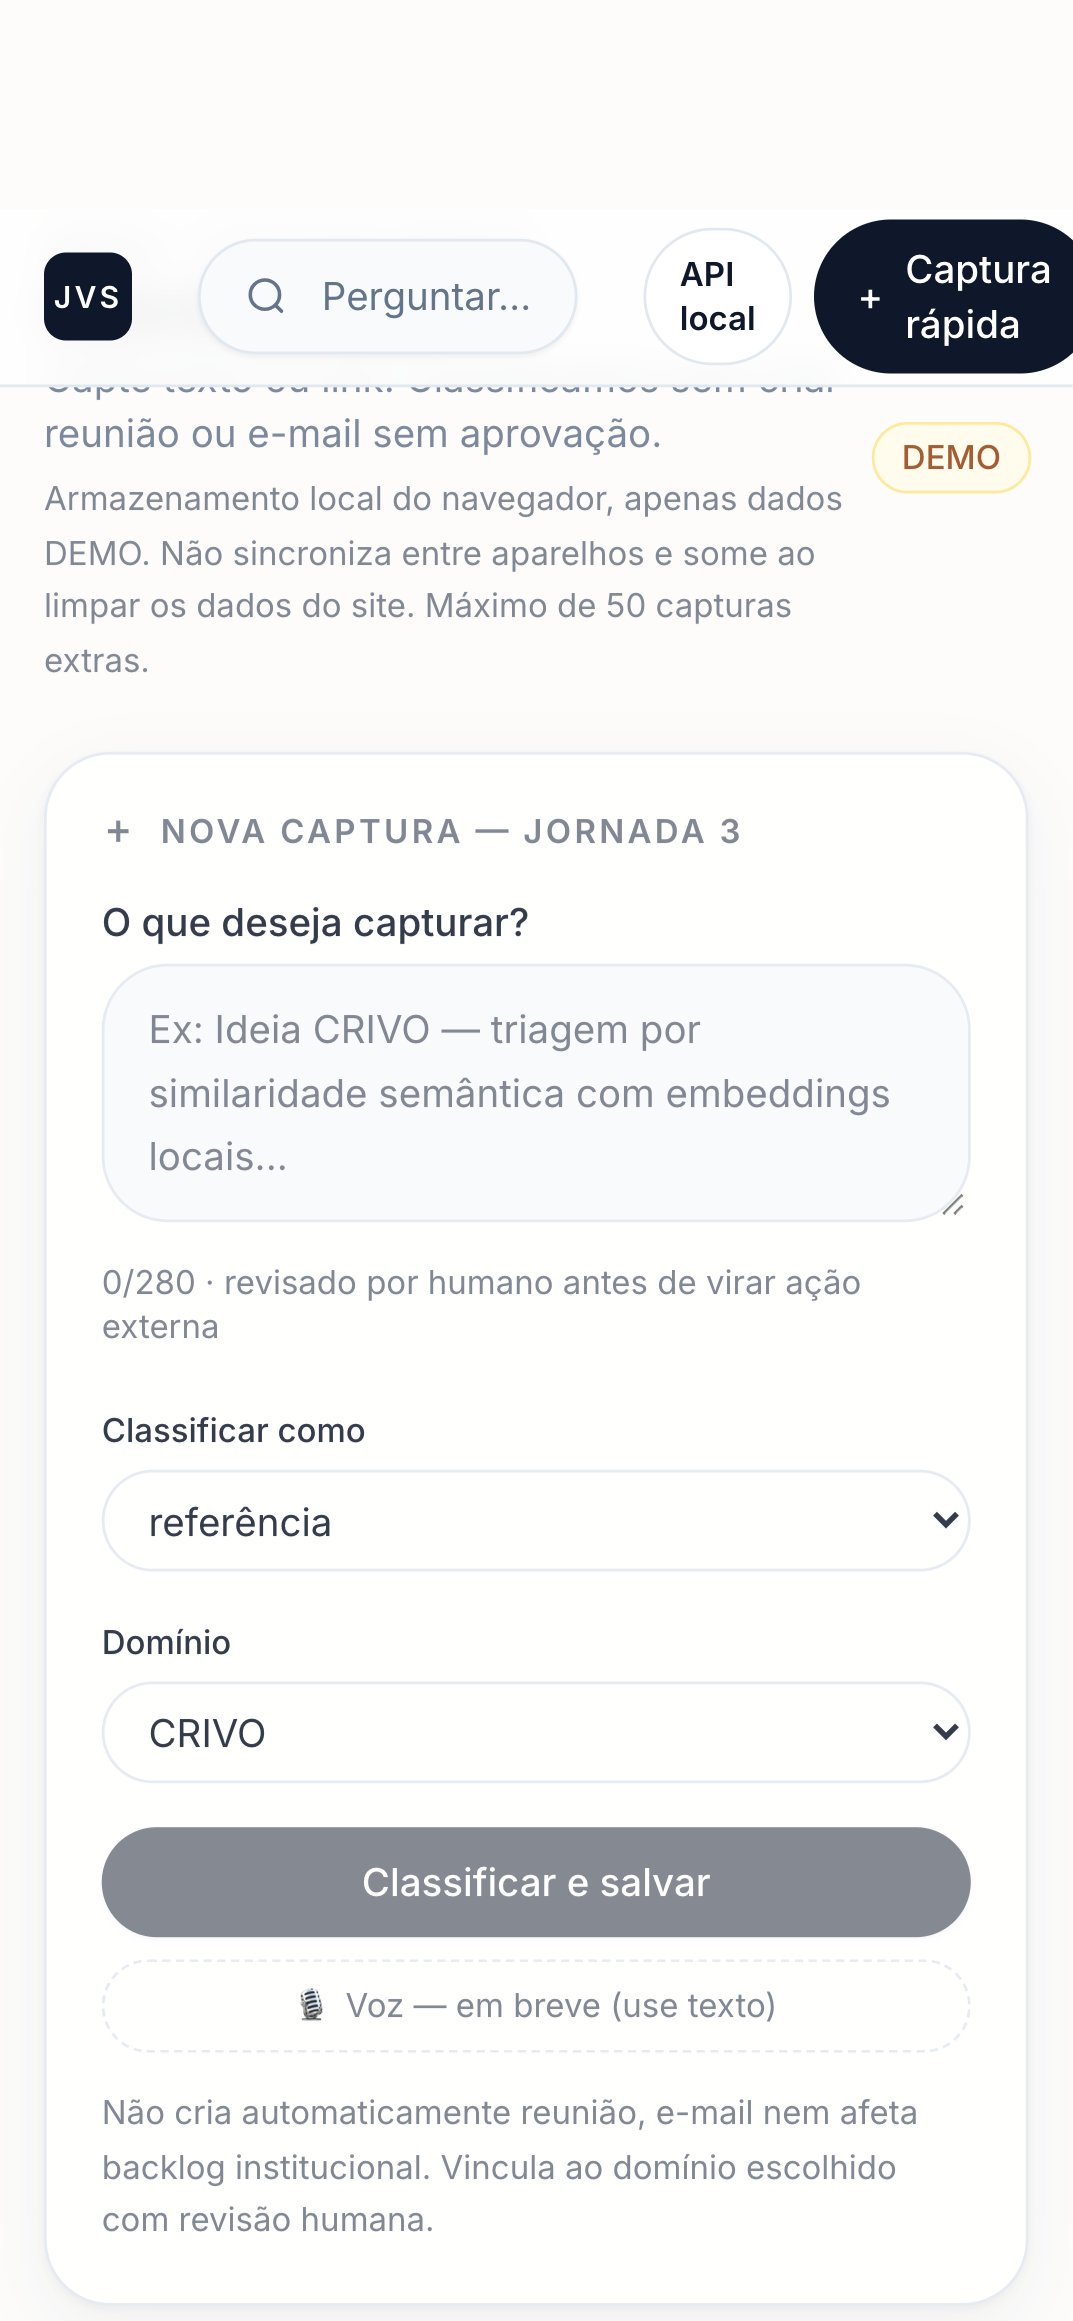
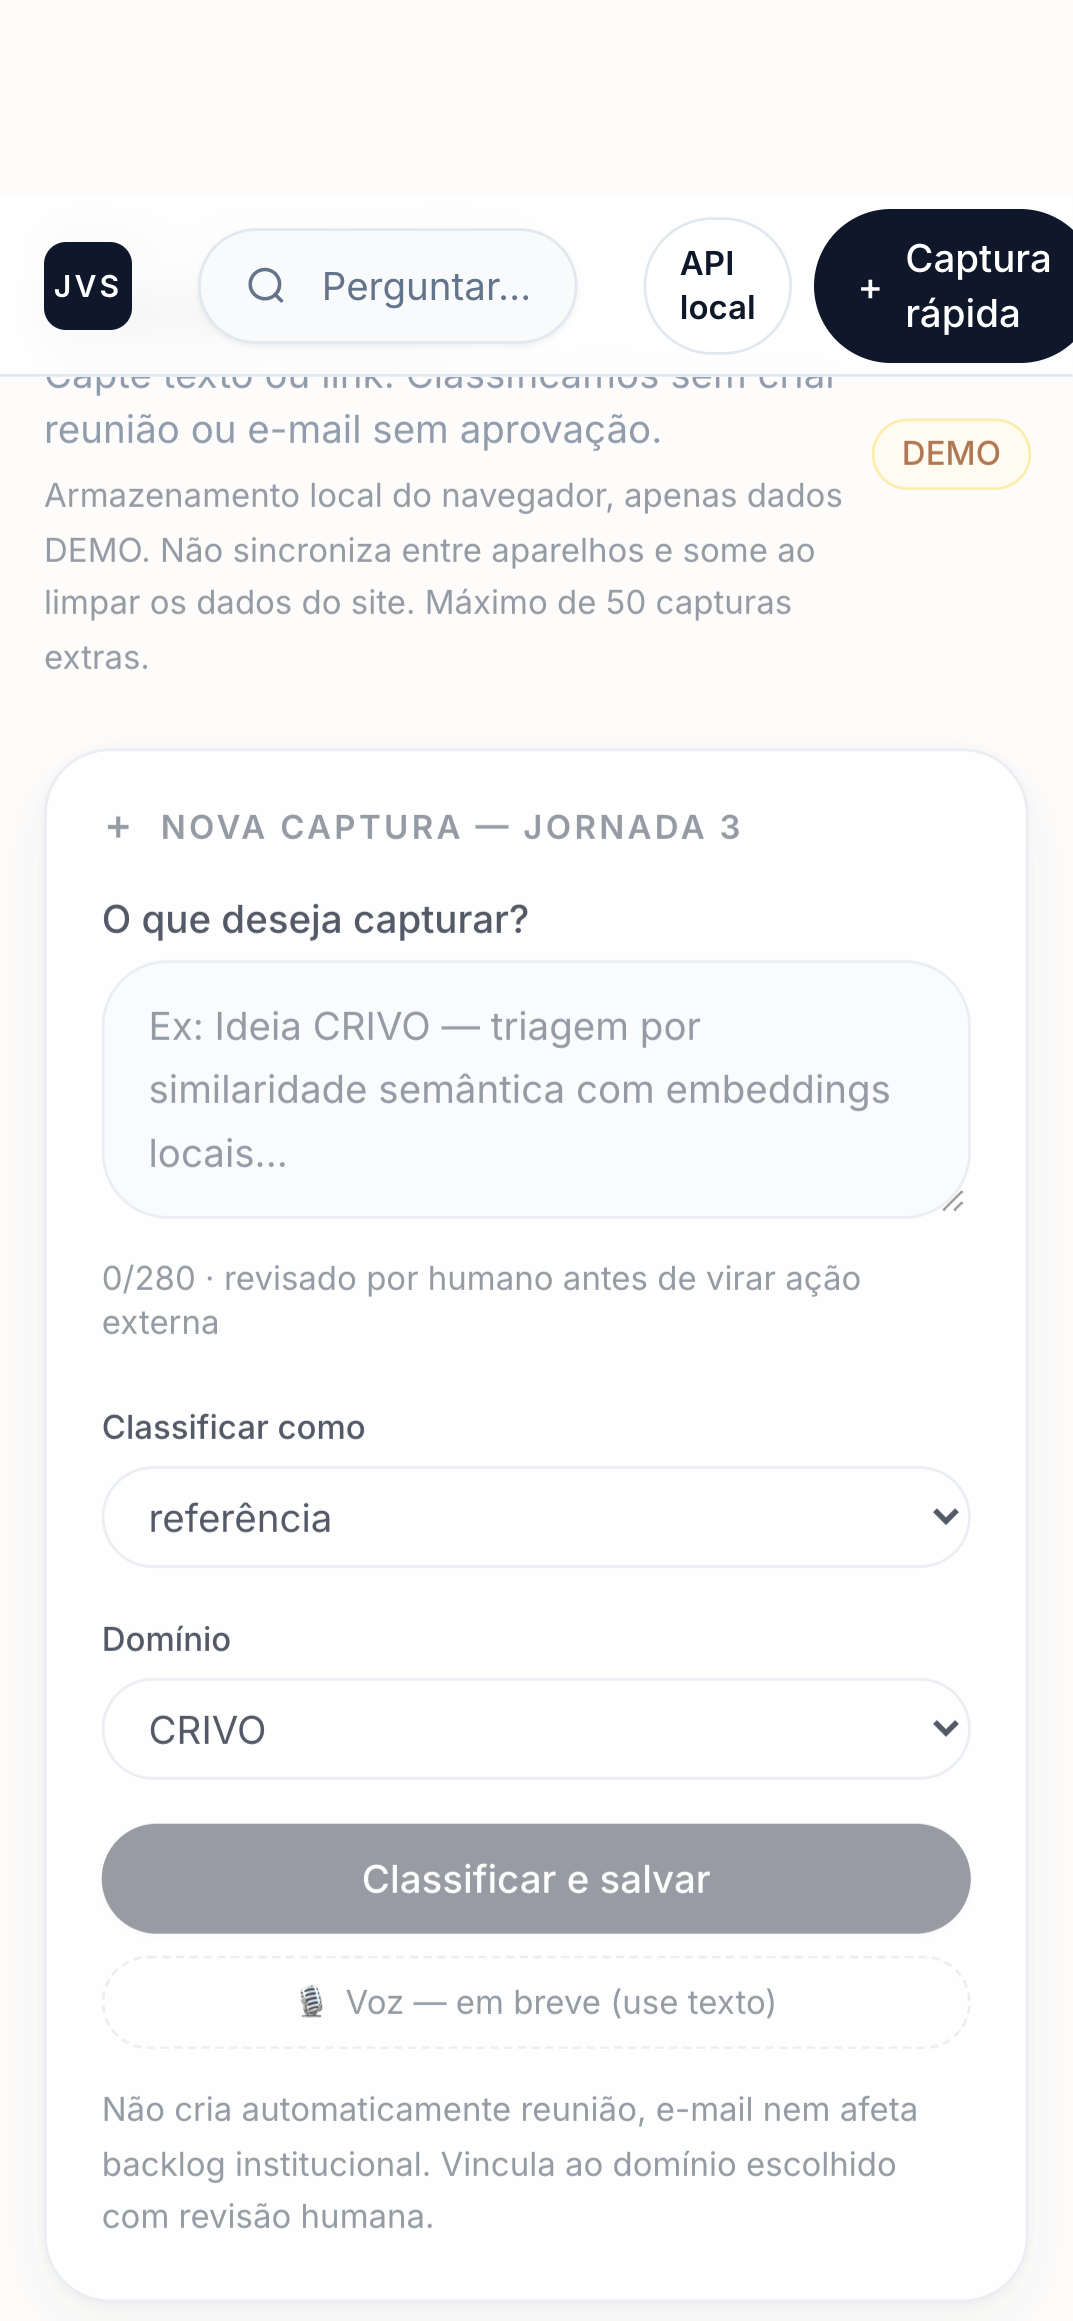
test: keep mission captures free of sticky overlays

diff --git a/apps/web/e2e/missions.spec.ts b/apps/web/e2e/missions.spec.ts
@@ -36,11 +36,13 @@ test("missão sintética executa skills, mantém proveniência e sobrevive ao re
   expect(apiCalls).toHaveLength(0);
 
   mkdirSync(shots, { recursive: true });
+  await page.locator('nav[aria-label="Navegação mobile"]').evaluate((element) => element.remove());
+  const screenshotStyle = await page.addStyleTag({ content: "header { position: static !important; }" });
   await page.screenshot({
     path: resolve(shots, `missions-${info.project.name}.png`),
-    fullPage: true,
-    style: "@media (max-width: 767px) { nav[aria-label='Navegação mobile'] { display: none !important; } }"
+    fullPage: true
   });
+  await screenshotStyle.evaluate((element) => element.remove());
   await page.reload();
   await expect(page.getByRole("heading", { name: "Síntese de exemplo fictício", exact: true })).toBeVisible();
   await expect(page.getByRole("heading", { name: "Rascunho: Síntese de exemplo fictício" })).toBeVisible();

diff --git a/docs/nightly/STATUS.md b/docs/nightly/STATUS.md
@@ -32,6 +32,7 @@
 - BLOCKED — P2/5C: `apps/desktop/README.md` registra direção de scaffold Tauri 2 e retomada; Rust/Cargo indisponíveis; **NÃO COMPILADO**, `.app` não gerado. Nenhum toolchain foi instalado.
 - BLOCKED — P2/5D: `apps/mobile/README.md` registra direção Capacitor e retomada; Android SDK/Android Studio/Gradle/adb ausentes; **APK NÃO GERADO**. Nenhum toolchain foi instalado.
 - PASS — suíte final: API 146/146; Vitest 53/53; TypeScript, lint e build Next/E2E aprovados. Avisos existentes: depreciação Starlette/httpx e aviso de retirada futura de `next lint`; Node informou depreciação de `module.register()` na execução Playwright.
+- DONE — capturas de página longa agora removem temporariamente a navegação fixa no teste, sem alterar a interface. Após ajuste, cenário de missão/captura passou 1/1 desktop e 1/1 mobile; a suíte completa 32/32 foi executada antes dessa alteração apenas de screenshot.
 - IN PROGRESS — relatório independente da implementação e matriz de auditoria local. Gate E continua `IMPLEMENTADO/TESTADO LOCALMENTE — AUDITORIA INDEPENDENTE PENDENTE`; nenhuma aceitação foi declarada.
 - PRÓXIMA — commitar incremento P3; produzir relatórios finais, matriz, roteiro demo e instruções de retomada. Commits anteriores: runner `b9151af`, correção de passphrase `3ed519e`, capturas `a32277e`, contratos `2612832`, Missões/skills `c01ef73`.
 
